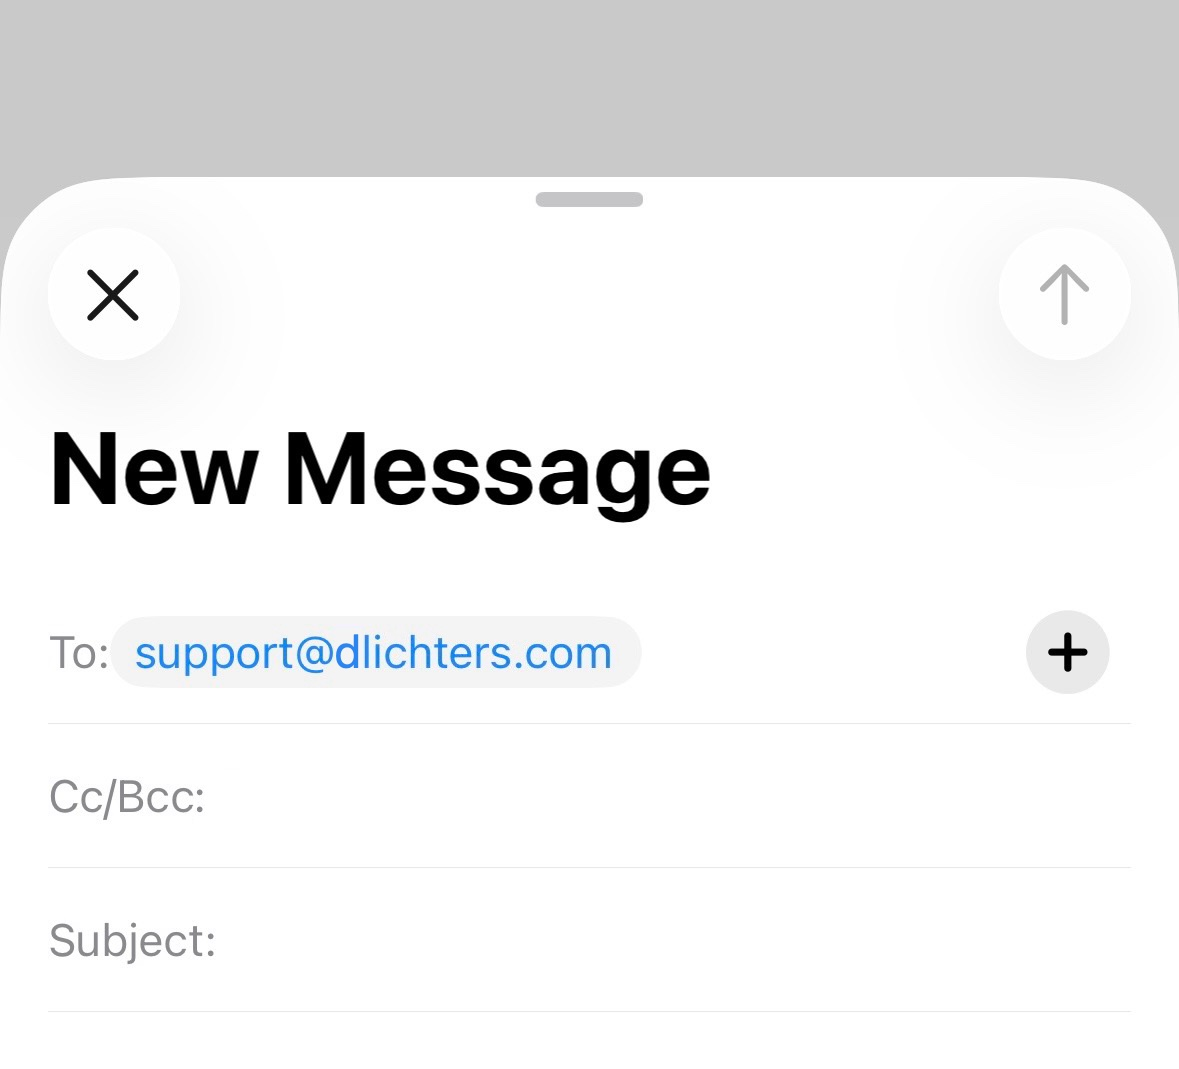
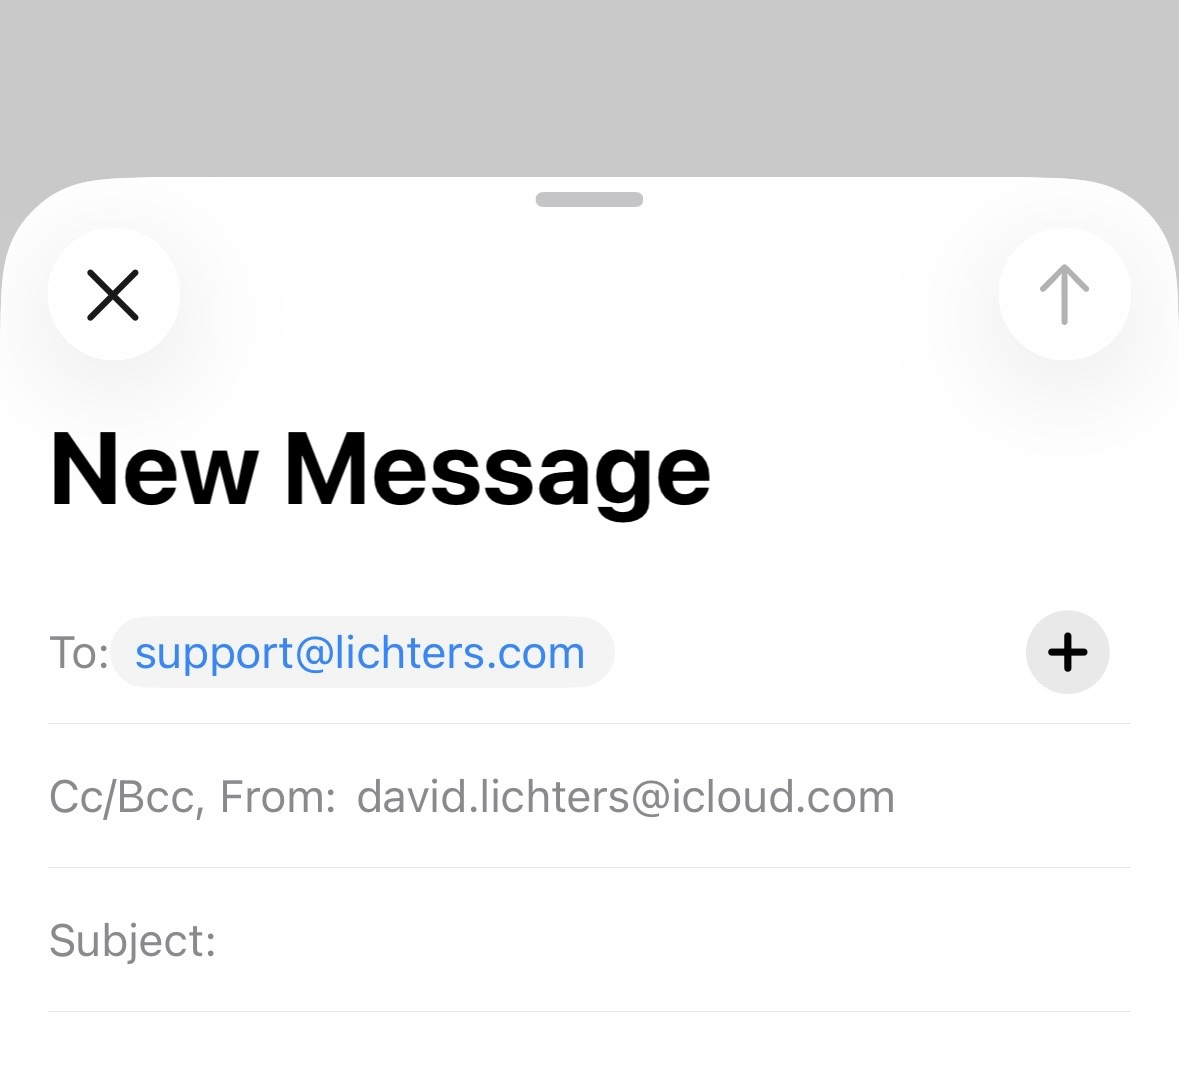
Support-Seite: Davids Mail-Bild wieder genau wie geschickt (support@lichters.com bleibt im Bild)

Changed region(s): [[0.3053, 0.71, 0.7634, 0.7717], [0.2748, 0.5865, 0.5191, 0.6483], [0.1832, 0.71, 0.2748, 0.7717]]

diff --git a/support/index.html b/support/index.html
@@ -339,7 +339,7 @@ addEventListener("pageshow",function(e){if(e.persisted&&has("gn-open"))trig.clic
 <main class="wrap">
 <h1 class="sup-h">Support</h1>
 <div class="sup">
-<a href="mailto:support@dlichters.com"><img src="mail.jpg" width="1179" height="1069" alt="Email support@dlichters.com"></a>
+<a href="mailto:support@dlichters.com"><img src="mail.jpg?v=2" width="1179" height="1069" alt="Email support@dlichters.com"></a>
 <a href="https://maps.apple.com/?address=Maurenbrecherstra%C3%9Fe%2016%2C%2047803%20Krefeld%2C%20Germany"><img src="karte.jpg" width="1179" height="1409" alt="Our address on Apple Maps"></a>
 <a href="https://wa.me/4915730331937"><img src="whatsapp.jpg" width="1179" height="993" alt="WhatsApp support"></a>
 </div>
